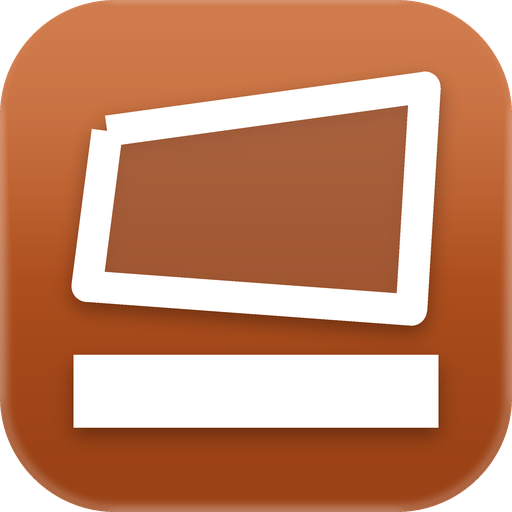
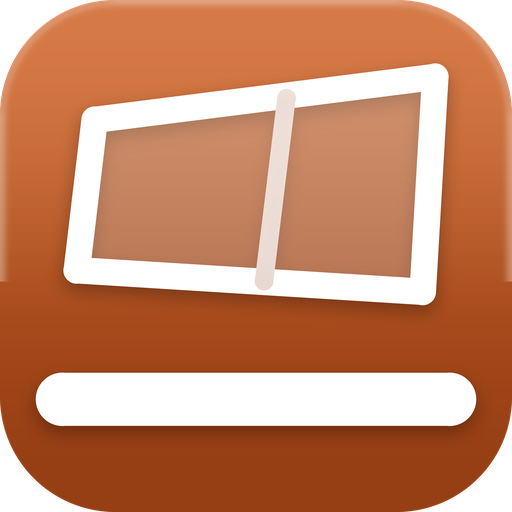
arsa: yeni ikonlar (v90) -- parsel + bolme + yol
Kullanici onayladi. Play Store ikonu AYRI dosya olarak kaynakta duruyor
(onizleme/play-ikon-512.png), yayina cikmiyor -- magazaya elle yuklenecek.

diff --git a/arsa/index.html b/arsa/index.html
@@ -13,7 +13,7 @@
 <meta name="apple-mobile-web-app-title" content="Arsa Rehberi" />
 <meta name="mobile-web-app-capable" content="yes" />
 <meta name="application-name" content="Arsa Rehberi" />
-<link rel="stylesheet" href="stil.css?v=89" />
+<link rel="stylesheet" href="stil.css?v=90" />
 </head>
 <body>
 
@@ -323,11 +323,11 @@
     <p class="kucuk"><a href="gizlilik.html" style="color:var(--vurgu)">Gizlilik politikası</a> — hiçbir bilginiz cihazınızdan çıkmaz.</p>
 </footer>
 
-<script src="degisiklikler.js?v=89" onerror="(window.__betikHata=window.__betikHata||[]).push('degisiklikler.js')"></script>
-<script src="cekirdek.js?v=89" onerror="(window.__betikHata=window.__betikHata||[]).push('cekirdek.js')"></script>
-<script src="mevzuat.js?v=89" onerror="(window.__betikHata=window.__betikHata||[]).push('mevzuat.js')"></script>
-<script src="rayic.js?v=89" onerror="(window.__betikHata=window.__betikHata||[]).push('rayic.js')"></script>
-    <script src="arayuz.js?v=89" onerror="(window.__betikHata=window.__betikHata||[]).push('arayuz.js')"></script>
+<script src="degisiklikler.js?v=90" onerror="(window.__betikHata=window.__betikHata||[]).push('degisiklikler.js')"></script>
+<script src="cekirdek.js?v=90" onerror="(window.__betikHata=window.__betikHata||[]).push('cekirdek.js')"></script>
+<script src="mevzuat.js?v=90" onerror="(window.__betikHata=window.__betikHata||[]).push('mevzuat.js')"></script>
+<script src="rayic.js?v=90" onerror="(window.__betikHata=window.__betikHata||[]).push('rayic.js')"></script>
+    <script src="arayuz.js?v=90" onerror="(window.__betikHata=window.__betikHata||[]).push('arayuz.js')"></script>
 <script>
 /* Çevrimdışı çalışma. Kayıt başarısız olursa uygulama yine çalışır —
    bu yüzden hata sessizce yutuluyor, kullanıcıyı ilgilendirmiyor. */

diff --git a/arsa/sw.js b/arsa/sw.js
@@ -11,7 +11,7 @@
 //
 // SÜRÜM HER YAYINDA ARTMALI. Artmazsa kullanıcı eski sürümde kalır.
 
-const SURUM = "arsa-v89";
+const SURUM = "arsa-v90";
 
 // SURUM ETIKETI TEK YERDEN TURETILIR.
 // Olculdu (27.08.2026): burada "?v=10" yaziliydi ama index.html "?v=19"
